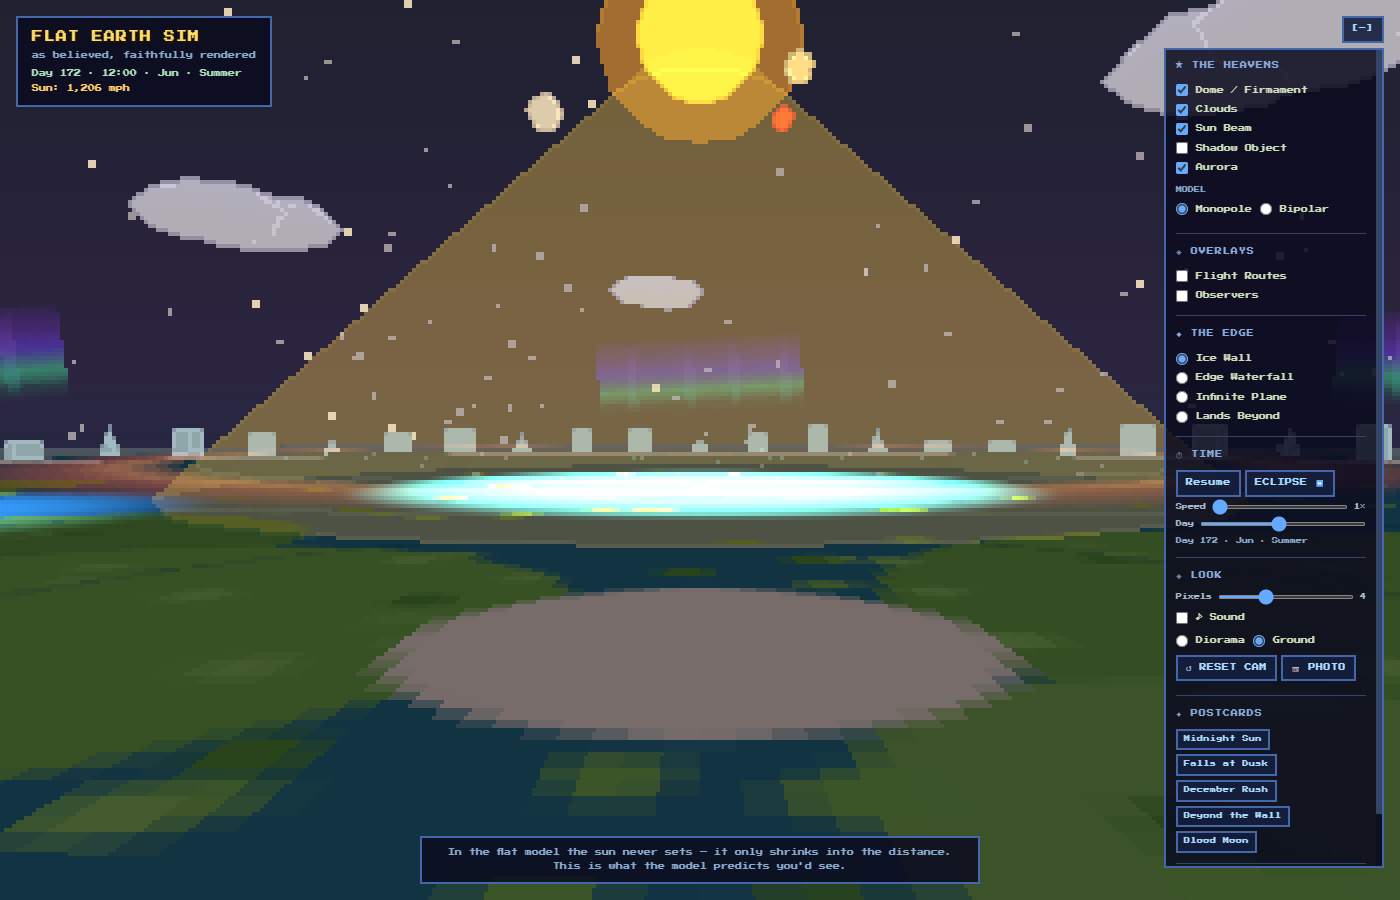
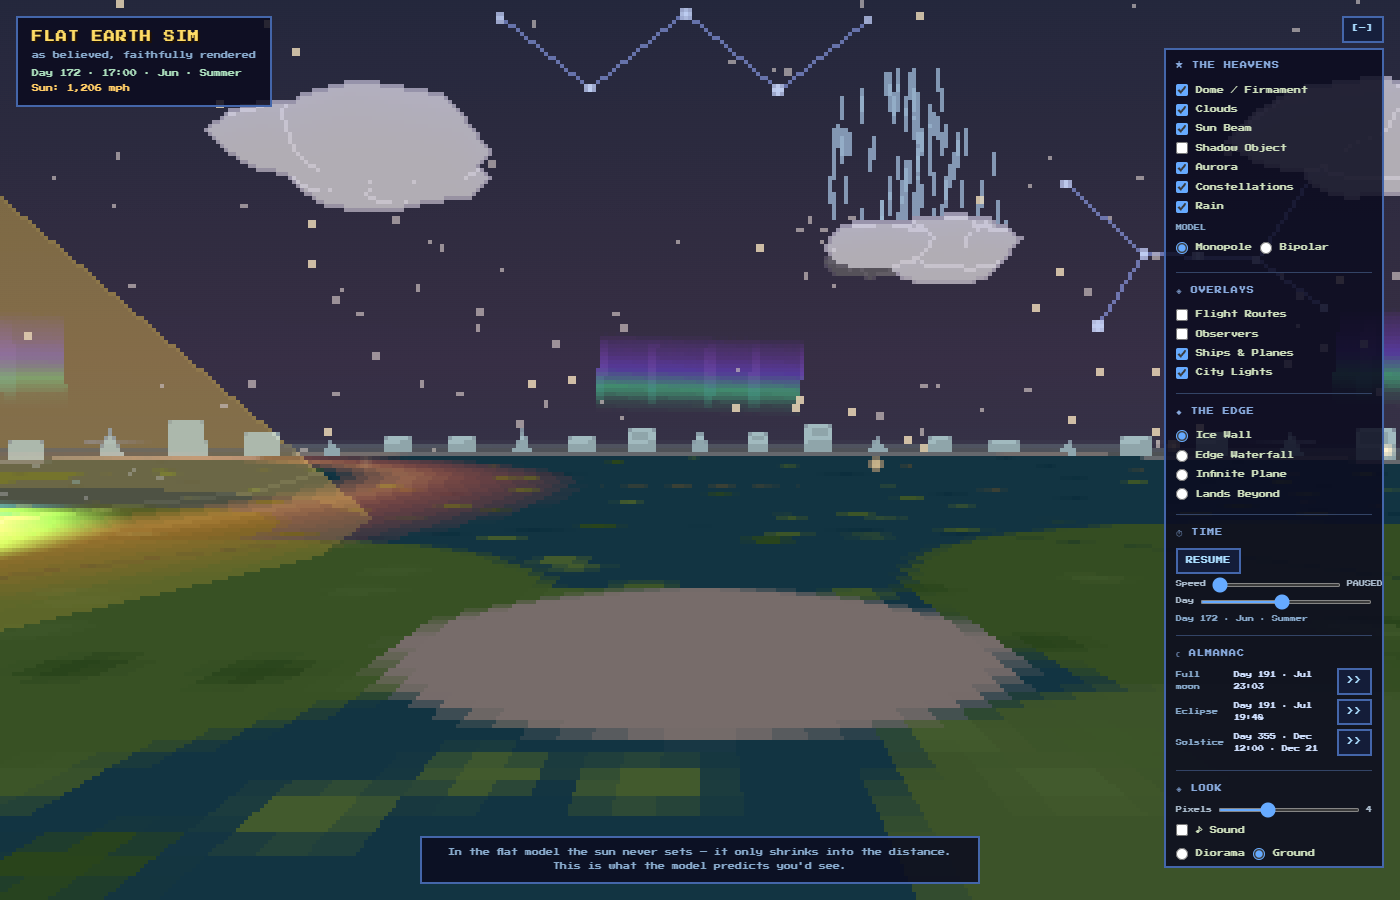
docs: v1.3 README + CLAUDE.md; regenerated screenshots
- README: v1.3 changelog, architecture block (state.js, rng.js, test/),
  unit-test + headless-screenshot notes, stable smoke number, licence.
- CLAUDE.md: schema / position-helper / RNG conventions, file map,
  verification notes (small virtual-time budget, URL-driven shots,
  iframe probe quirk).
- All seven screenshots retaken from URL params on the v1.3 build
  (old ones showed the v1.1 panel and the compressed map).
- PROGRESS.md retired with the work.

diff --git a/index.html b/index.html
@@ -256,7 +256,7 @@
       <p>wiki.tfes.org · Wikipedia "Modern flat Earth beliefs" · NCSE "The Rim at the End of the World" · Blake Marnell "Flat Earth Sun Moon &amp; Zodiac Clock" · Rowbotham "Zetetic Astronomy" (1865)</p>
 
       <div class="modal-table-title">TECH</div>
-      <p>Three.js 0.180.0 vendored · RenderPixelatedPass · All art procedural · Press Start 2P font (OFL) · Run: python -m http.server 8000</p>
+      <p>Three.js 0.180.0 vendored · RenderPixelatedPass · All art procedural · Press Start 2P font (OFL) · MIT · Run: python -m http.server 8000 · Tests: node --test</p>
 
       <div class="modal-table-title">SETTINGS</div>
       <p><a id="btn-reset-all" href="#" class="reset-all-link">RESET ALL SETTINGS</a> — clears saved state and reloads with defaults.</p>

diff --git a/CLAUDE.md b/CLAUDE.md
@@ -7,9 +7,12 @@ A cozy pixel-art flat-earth simulation. Three.js + RenderPixelatedPass, vanilla 
 ```
 run.bat                    # Windows shortcut — runs python -m http.server 8000
 python -m http.server 8000 # any platform
+node --test                # unit tests (sim.js math, state.js round-trip); no npm needed
 ```
 
 Open http://localhost:8000. ES modules are CORS-blocked from `file://` — always serve.
+
+Run `node --test` after touching `js/sim.js` or `js/state.js`; CI runs it on push. The scale test (`latLonToDisc` vs the sun-path constants) is the guard against the map and the lore drifting apart again.
 
 ### Smoke test
 
@@ -20,16 +23,20 @@ python -u -m http.server 8000
 ```
 
 Watch stderr/log for:
-- `/SMOKE_RESULT?msg=...` beacon (scene health)
+- `/SMOKE_RESULT?msg=...` beacon (scene health). Build RNG is seeded, so the number is stable: `lit=190336/480000 distinctColors=50 objectsInScene=34`. A different `lit` after a change to world/sky/textures is expected; a wildly different one (or 0) is a regression.
 - Any 404s (missing vendor files, importmap errors)
 
 ### Headless screenshots (Windows)
 
 ```
-msedge --headless=new --enable-unsafe-swiftshader --use-angle=swiftshader --virtual-time-budget=15000 --screenshot=out.png http://localhost:8000/
+msedge --headless=new --enable-unsafe-swiftshader --use-angle=swiftshader --window-size=1400,900 --virtual-time-budget=2500 --timeout=90000 --screenshot=out.png "http://localhost:8000/?speed=0&panel=open"
 ```
 
-Do NOT use `--dump-dom` (races module execution). Do NOT trust the static clock text in `index.html` (placeholder HTML, not live sim state).
+- Keep `--virtual-time-budget` small (≈2500). The scene renders at a few fps under SwiftShader, so 15 s of virtual time takes minutes; `--timeout` is the real-time cap.
+- Drive the view with URL params (`?day=&time=&speed=0&cam=x,y,z&panel=open|closed`); all README screenshots are reproducible that way. `speed=0` freezes the clock so the frame is deterministic.
+- Do NOT use `--dump-dom` (races module execution). Do NOT trust the static clock text in `index.html` (placeholder HTML, not live sim state).
+- Port 8000 can be taken by another local server; any port works, the page has no absolute URLs.
+- Quirk: a direct 390-px-wide headless shot omitted the fixed `#btn-collapse` although the DOM placed it at (323,8); rendering the page in a 390-px iframe inside a wider page shows it. Probe geometry through an iframe + `fetch('/PROBE?...')` beacon when a fixed element looks missing.
 
 ## Critical gotchas
 
@@ -53,7 +60,11 @@ Always serve from HTTP. `file://` blocks ES module imports. The importmap in `in
 
 - No bundler, no framework, no npm. Plain ES modules.
 - All textures are procedural Canvas 2D — no binary image assets except the font (`assets/PressStart2P.ttf`).
-- **All lore values live in `CONSTANTS` in `js/sim.js`** with source comments. Change lore there, not in scene code.
+- **All lore values live in `CONSTANTS` in `js/sim.js`** with source comments. Change lore there, not in scene code. Sourced doctrine vs invented flavour is labelled in README / About / tooltips; keep new decoration labelled the same way.
+- **Sim state has one schema**: `STATE_SCHEMA` in `js/state.js` drives apply / capture / serialize / URL parse. Adding a toggle = one schema entry + the `<input>` in `index.html` + its handler in `ui.js` + a README URL-table row. Entry order is apply order (`cam` last). URL params are one-shot (stripped after apply); sharing goes through COPY LINK.
+- **Pure position helpers** (`sunPosAt(t)`, `moonPosAt(t)`, `shadowObjectPosAt(t)`, …) in `js/sim.js` are the single model; `SimClock` getters and the almanac finders both call them. Never re-inline the orbit math.
+- **Build-time randomness goes through `buildRandom()`** (`js/rng.js`, seeded) so every load renders the same diorama; per-viewing randomness (meteor spawns, rain jitter, bird/foghorn timing) stays on `Math.random`.
+- **Press Start 2P has no U+23E9/⏸-style glyphs** — button labels stay ASCII (`>>`, `PAUSE`); emoji (📷 🔗) fall back to the system emoji font and are fine.
 - **Map projection is true azimuthal equidistant on the full disc**: `r = (90 − lat) / 180 × DISC_RADIUS` — north pole at the centre, south pole at the disc edge (Antarctica is the rim band, lat ≤ −70°), so 180° of latitude = 12,450 mi = the same mile scale as the sun-path constants (Cancer at 3.7 units under the June sun, Capricorn at 6.3 under the December sun). `latLonToDisc()` in `js/sim.js` is the only projection; `makeWorldMapTexture()` converts its units to canvas px (`256 / DISC_RADIUS` px per unit). Anything placed by lat/lon (map, routes, observers, cities, ships) goes through it. v1.1–1.2 squeezed 180° into 220 of 256 px and put the June sun over 12°N; `test/sim.test.js` pins the fix.
 - Importmap in `index.html` wires the module specifiers to `vendor/`.
 - `vendor/` is intentionally committed (pinned three.js 0.180.0, no CDN dependency).
@@ -62,13 +73,17 @@ Always serve from HTTP. `file://` blocks ES module imports. The importmap in `in
 
 | File | Purpose |
 |---|---|
-| `js/main.js` | Renderer setup, EffectComposer, OrbitControls, animation loop |
-| `js/sim.js` | Wall clock, orbital math, CONSTANTS (all lore values); eclipse/full-moon/solstice finders, meteor-shower + frost math |
+| `js/main.js` | Renderer setup, EffectComposer, OrbitControls, animation loop, localStorage persistence, one-shot URL params, `setEdgeMode` (world + fog + audio), `setViewMode` |
+| `js/state.js` | `STATE_SCHEMA` + `applyState` / `captureState` / `serializeState` / `parseUrlState` |
+| `js/sim.js` | Wall clock, pure `*At(t)` position helpers, CONSTANTS (all lore values); eclipse/full-moon/solstice finders, meteor-shower + frost math, `latLonToDisc` |
+| `js/rng.js` | `makeRng(seed)` + `buildRandom` (seed 1337) for build-time randomness |
 | `js/world.js` | Disc, ice wall, four edge variants; frost ring, drifting rain cells |
 | `js/sky.js` | Sun, moon, stars, dome, planets, Shadow Object; constellations, shooting stars |
 | `js/overlays.js` | Flight routes + observer pins on the AE map; distance/solar-time DOM boxes; traffic (planes + ships), city lights |
 | `js/audio.js` | Procedural WebAudio: wind, firmament pad, waterfall crossfade, rain, crickets, dawn/dusk birds, ice-wall foghorn (no audio files) |
 | `js/textures.js` | Procedural Canvas 2D textures |
-| `js/ui.js` | Right-panel controls, almanac panel; reads/writes sim state |
+| `js/ui.js` | Right-panel controls, almanac panel, postcards, tooltips, photo mode, COPY LINK; `initUI(ctx)` returns `{ toggles, jumpToEclipse }` |
+| `test/` | `node --test` suites (`sim.test.js`, `state.test.js`) |
+| `.github/workflows/test.yml` | CI: `node --test` on push / PR |
 | `smoke-test.html` | Headless render + framebuffer health check |
 | `vendor/` | Pinned Three.js 0.180.0 + addons |

diff --git a/README.md b/README.md
@@ -26,7 +26,15 @@ A real-time 3D diorama of the flat-earth consensus model as described by [TFES (
 
 ## What's new in v1.3 — the Honest Update
 
+A maintenance release: one lore bug, one UX bug, and the repo put in order.
+
 - **Map scale fixed.** v1.1's "true AE" map squeezed 180° of latitude into 86% of the disc, so the lore sun (4,600 mi path in June) sat over 12°N instead of the Tropic of Cancer, and 42°S in December instead of Capricorn. The south pole now sits at the disc edge — Antarctica *is* the rim, which is the lore — and the continents, routes, observers and city lights all moved outward ~16% to match. Faint dashed tropic circles mark the sun's turning paths; a unit test pins Cancer/Capricorn under the solstice sun paths. Sydney–Santiago's flat distance is now 15,974 mi.
+- **🔗 COPY LINK** (LOOK section) builds a URL that reproduces the exact view. URL parameters are now one-shot: applied on load, then stripped, so a postcard you clicked last week can no longer override today's settings on reload (v1.1–1.2 did exactly that).
+- **Same diorama every load** — build-time randomness (ice-wall blocks, clouds, islands, star field, map speckle) is seeded, so a shared link shows the frame you saw.
+- **Phone layout** — bigger type and tap targets under 640 px; the panel starts collapsed, `[+]` opens it.
+- **Doctrine vs flavour** — invented v1.2 colour (constellation and shower names, ship loops, city set) is labelled as such in the README, the About modal and its tooltips.
+- **Tests + CI** — `node --test` pins the almanac math, the eclipse finder, the projection scale and the URL state round-trip; GitHub Actions runs it on push. No npm, no dependencies.
+- **Housekeeping** — MIT licence, the font's OFL text, a favicon (no more 404 in the smoke-test log), description/OG meta for link previews, and `js/state.js` so adding a toggle is one schema entry instead of edits in four lists.
 
 ## What's new in v1.2 — the Cozy Update
 
@@ -214,10 +222,12 @@ Everything in the table above is sourced: the sun's path and height, the self-lu
 
 ```
 js/main.js        — renderer setup, EffectComposer, OrbitControls, animation loop,
-                    state capture/apply/serialize, localStorage persistence, view modes
-js/sim.js         — wall clock, orbital math, CONSTANTS (all lore values live here),
-                    eclipse/full-moon/solstice finders, meteor-shower + frost math,
-                    lat/lon → disc projection
+                    localStorage persistence, one-shot URL params, view + edge modes
+js/state.js       — STATE_SCHEMA: the one table behind apply / capture / serialize / parse
+js/sim.js         — wall clock, pure sun/moon/shadow position helpers, CONSTANTS (all lore
+                    values live here), eclipse/full-moon/solstice finders, meteor-shower +
+                    frost math, lat/lon → disc projection
+js/rng.js         — seeded build-time RNG (mulberry32) so every load renders the same scene
 js/world.js       — disc geometry, ice wall, and all four edge variants; bipolar map swap;
                     frost ring, drifting rain cells
 js/sky.js         — sun, moon, stars, dome, planets, Shadow Object, aurora, twilight ring,
@@ -227,8 +237,10 @@ js/overlays.js    — flight routes + observer pins on the AE map; distance & so
 js/audio.js       — procedural WebAudio: wind, firmament pad, waterfall crossfade,
                     rain, crickets, dawn/dusk birds, ice-wall foghorn
 js/textures.js    — all textures procedural via Canvas 2D (no binary image assets)
-js/ui.js          — right-panel HTML controls, almanac panel, postcards, lore tooltips, photo mode
+js/ui.js          — right-panel HTML controls, almanac panel, postcards, lore tooltips,
+                    photo mode, COPY LINK
 
+test/             — node --test suites for sim.js and state.js (no dependencies)
 vendor/           — pinned Three.js 0.180.0 (intentionally committed, no CDN)
   three.module.js — re-exports from three.core.js (both files required)
   three.core.js   — the actual build; missing = silent black canvas
@@ -241,6 +253,14 @@ vendor/           — pinned Three.js 0.180.0 (intentionally committed, no CDN)
 
 ## Dev Notes
 
+### Unit tests
+
+```
+node --test
+```
+
+Node's built-in runner (≥ 20); no npm. `test/sim.test.js` pins the synodic month, solstice wrap, the eclipse finder against the tint function, the projection scale (Cancer under the June sun path) and the lockstep between `SimClock` getters and the pure `*At(t)` helpers; `test/state.test.js` round-trips the URL state. CI runs the same command on push.
+
 ### Smoke test
 
 `smoke-test.html` renders one composer frame, reads back the framebuffer with `gl.readPixels`, counts lit pixels / distinct colors / scene object count, and beacons the result via `GET /SMOKE_RESULT?msg=...` (visible in the HTTP server log).
@@ -251,14 +271,17 @@ Run as:
 python -u -m http.server 8000
 ```
 
-Watch stderr/log for the `/SMOKE_RESULT` beacon **and** for 404s. Do not use `--dump-dom` (races module execution) or rely on the static clock text in `index.html` (placeholder HTML).
+Watch stderr/log for the `/SMOKE_RESULT` beacon **and** for 404s. The build RNG is seeded, so the beacon is stable: `lit=190336/480000 distinctColors=50 objectsInScene=34`. Do not use `--dump-dom` (races module execution) or rely on the static clock text in `index.html` (placeholder HTML).
 
 Headless screenshots on Windows:
 
 ```
 msedge --headless=new --enable-unsafe-swiftshader --use-angle=swiftshader \
-  --virtual-time-budget=15000 --screenshot=out.png http://localhost:8000/
+  --virtual-time-budget=2500 --timeout=90000 --window-size=1400,900 \
+  --screenshot=out.png "http://localhost:8000/?day=172&time=12&speed=0&panel=open"
 ```
+
+Keep the virtual-time budget small: the scene renders at a few fps under SwiftShader, so 15 s of virtual time takes minutes of wall-clock. Any URL parameter works, so every README screenshot is reproducible from its query string.
 
 ### three.core.js gotcha
 
